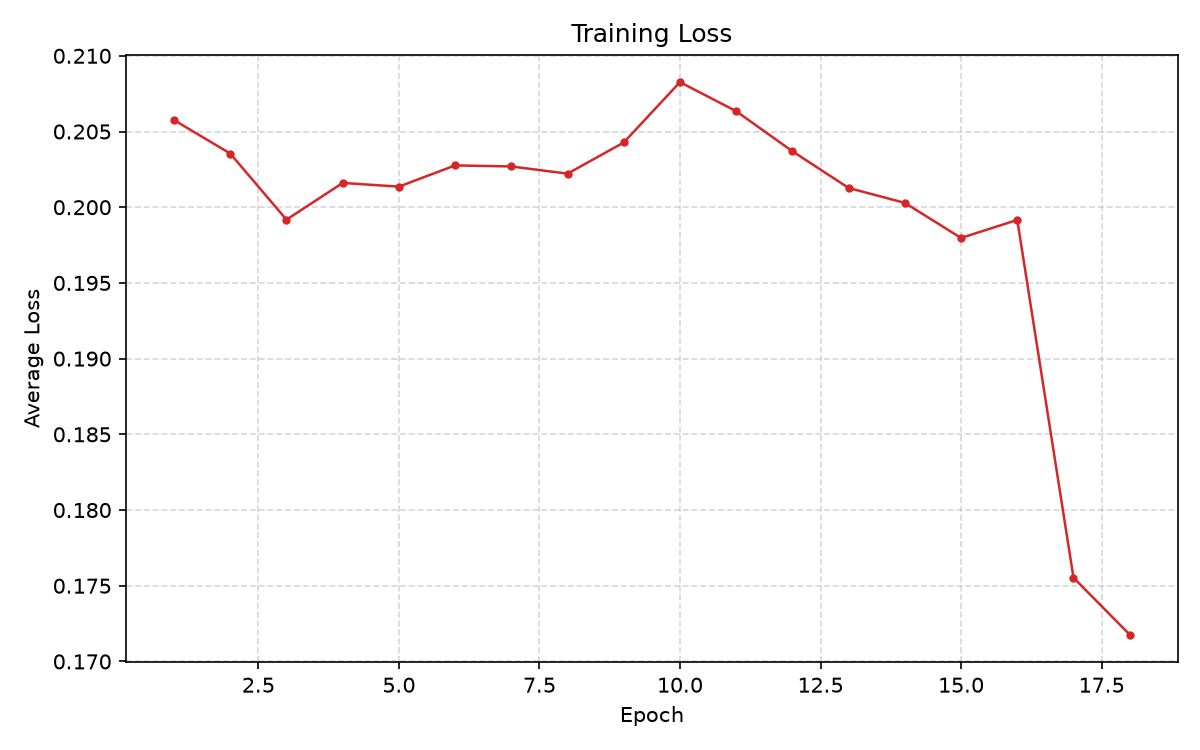
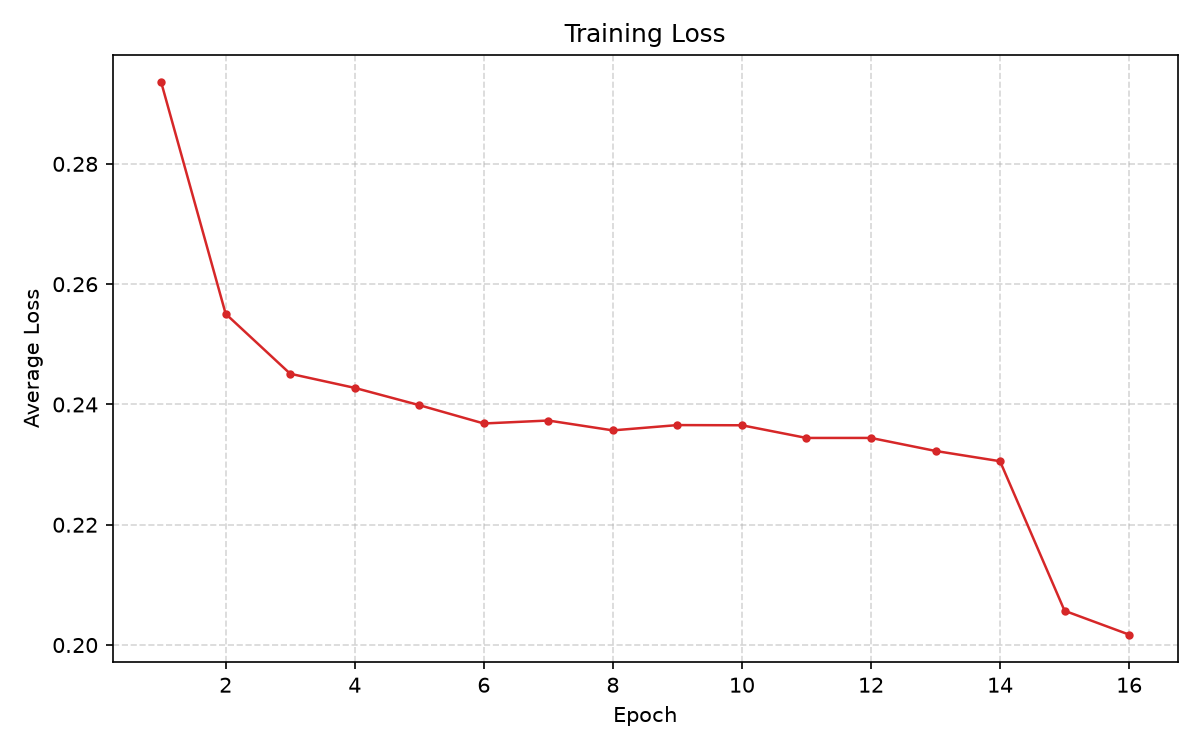
Digital-Letters-OCR-v1.0.3

diff --git a/README.md b/README.md
@@ -2,7 +2,7 @@
 
 ## 1.项目介绍
 
-**目标是训练一个能识别各种类型且具有高识别率的图形验证码AI模型**
+**目标是训练一个能识别各种类型且具有高识别率、低消耗的图形验证码神经网络**
 
 
 **项目的架构：** 采用分层ai的架构，简单描述为 **"路由ai+功能ai"**，其中使用flask框架对外提供服务api，同时对内对各种功能ai的启动进行调度管理
@@ -68,8 +68,14 @@ python app.py  # 启动服务api
 
 ## 5.问题与解决思路
 
-### 5.1 模型泛化
+### 5.1 模型泛化与其评估策略
 
+参考论文：[Generalization in Neural Networks: A Broad Survey](https://arxiv.org/abs/2209.01610)
+
+主要包括三个方面：
+1. 样本泛化：训练集抽样与同分布合成测试集
+2. 分布泛化：合成测试集与扰动数据集（如随机缩放、随机旋转、高斯模糊、高斯噪声等）
+3. 域泛化：合成测试集与真实测试集的差异
 
 
 验证码的难点在于同一类型也会有字体、倾斜、噪点、模糊程度等各种差异，如果只是死记硬背训练数据，换个画风就崩了。
@@ -132,21 +138,29 @@ python app.py  # 启动服务api
 </table>
 
 目前模型情况：
-- 合成测试集：~~76.39%~~ ~~76.61%~~ 76.05%
-- 真实测试集：74.19%
 
-实际上这些准确率仅供参考，因为随着训练集合的增加，巨量的太模糊的图形验证码会导致准确率的下降，但是这不代表模型在模糊度中等偏上的识别准确率差
 
+常规评估：
 
 
 <div align="center">
-  <img src="images/Digital-Letters-OCR/evaluate.png">
+  <img src="images/Digital-Letters-OCR/normall_evaluate.png">
 </div>
 
 续训每轮损失：
 <div align="center">  
   <img src="images/Digital-Letters-OCR/loss_curve.png">
 </div>
+
+
+泛化评估：
+
+<div align="center">  
+  <img src="images/Digital-Letters-OCR/generalization_evaluate.png">
+</div>
+
+
+
 
 
 目前模型的准确率和泛化能力在实际场景中应该可以接受。
